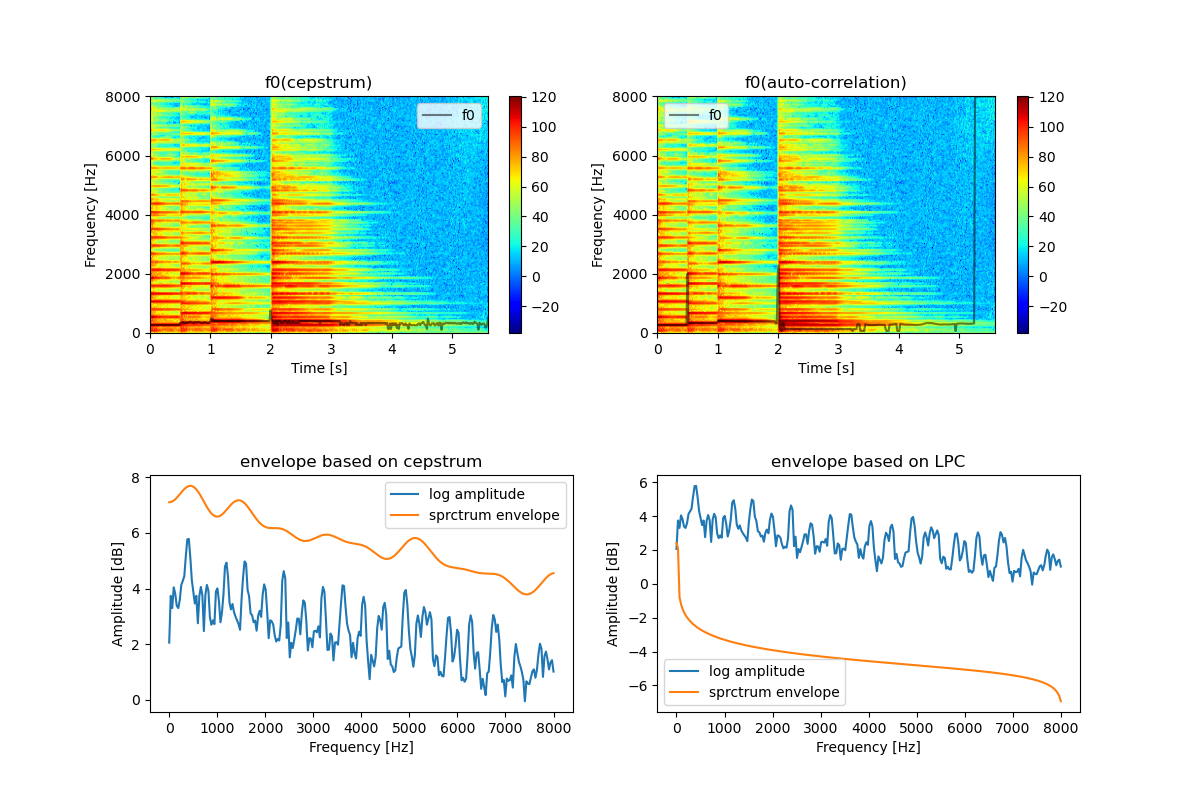
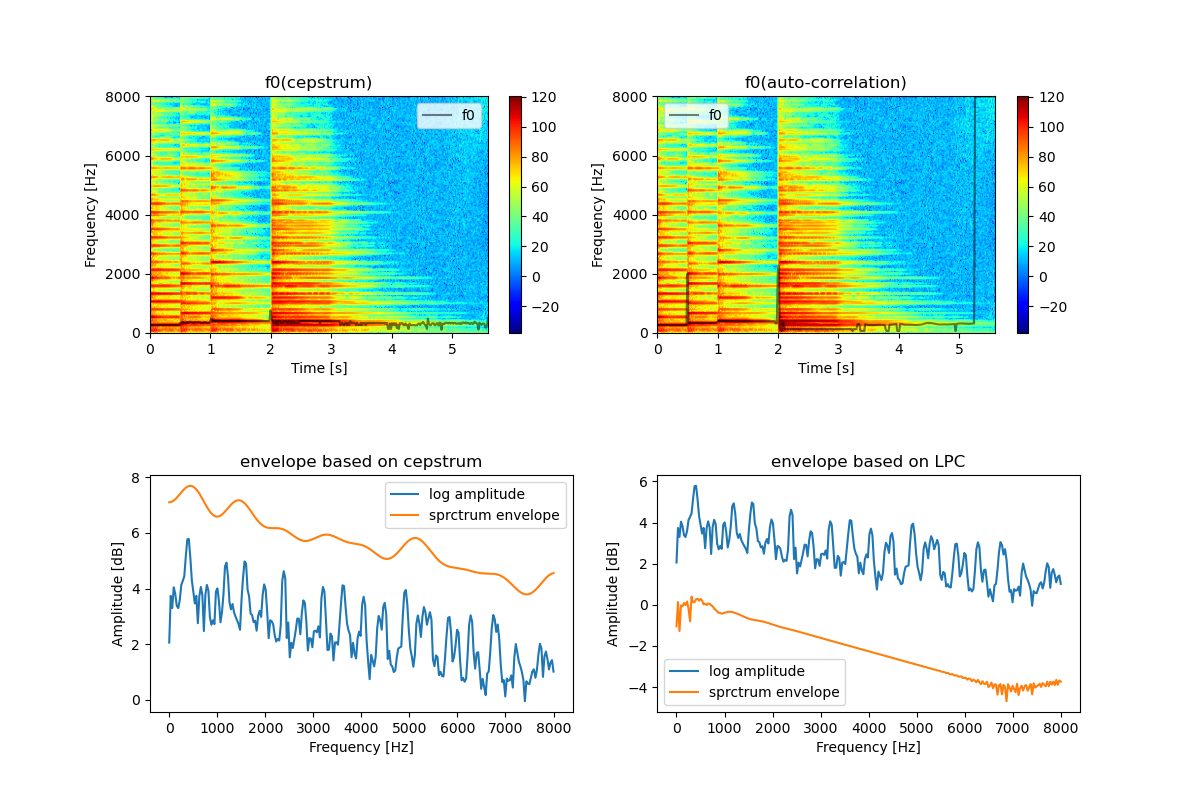
LPCできた?

Changed region(s): [[0.5242, 0.625, 0.8942, 0.875], [0.5242, 0.8438, 0.555, 0.875]]

diff --git a/ex4/sawada/my_functions/envelope.py b/ex4/sawada/my_functions/envelope.py
@@ -37,17 +37,13 @@ def envelope_cepstrum(data):
 # TODO: おかしい
 def envelope_lpc(data, p, fs):
     # TODO: docstring
-    length = len(data)
     auto_correlation = f0.auto_correlation(data)
     
-    toeplitz = np.zeros((length, length))
-    for i in range(length):
-        toeplitz[i:, i] = auto_correlation[i:]
-        toeplitz[i, i:] = auto_correlation[i:]
-    
-    # alphas = solve_toeplitz(toeplitz, auto_correlation)
-    alphas = scipy.linalg.solve_toeplitz(auto_correlation, -auto_correlation)
-    
+    alphas = solve_toeplitz(auto_correlation[:p],
+                            -auto_correlation[1:p + 1])
+    # alphas = scipy.linalg.solve_toeplitz(auto_correlation[:p],
+    #                                      -auto_correlation[1:p + 1])
+    alphas = np.append([1], alphas)  # add constant term
     w, h = scipy.signal.freqz(1, alphas, fs=fs)
     
     # fig = plt.figure(figsize=(10, 10))
@@ -59,26 +55,33 @@ def envelope_lpc(data, p, fs):
 
 # TODO: おかしい
 def solve_toeplitz(x, b):
-    if (x.shape[0] != x.shape[1] or x.shape[1] != len(b)):
-        raise ValueError("wrong shape")
     dimension = len(b)
+    if (dimension != len(x)):
+        raise ValueError("wrong shape")
+    toeplitz = np.zeros((dimension, dimension))
+    for i in range(dimension):
+        toeplitz[i:, i] = x[i:]
+        toeplitz[i, i:] = x[i:]
     answers = np.zeros(dimension)
     residual_error = np.zeros(dimension)
-    
-    # base stage
-    answers[0] = -1 * x[1, 1] / x[0, 0]
-    residual_error[0] = x[0, 0] + answers[0] * x[1, 1]
-    
-    # recursive stage
-    for i in range(dimension - 1):
-        lambda_ = 0
-        for j in range(i + 2):
-            lambda_ -= answers[j] * b[i + 1 - j]
-        lambda_ /= residual_error[i]
+    if True:
+        # とりあえず愚直に逆行列で…
+        answers = np.linalg.inv(toeplitz) @ -b
+    else:
+        # base stage
+        answers[0] = -1 * toeplitz[1, 1] / toeplitz[0, 0]
+        residual_error[0] = toeplitz[0, 0] + answers[0] * toeplitz[1, 1]
         
-        answers[: i + 2] = (np.concatenate([[1], answers[: i + 1], [0]]) +
-                            lambda_ *
-                            np.concatenate([[0], answers[: i + 1], [1]]))[1:]
-        residual_error[i + 1] = (1 - np.power(lambda_, 2)) * residual_error[i]
-    
+        # recursive stage
+        for i in range(dimension - 1):
+            lambda_ = 0
+            for j in range(i + 2):
+                lambda_ -= answers[j] * b[i + 1 - j]  # NOTE: 怪しい
+            lambda_ /= residual_error[i]
+            
+            answers[: i + 2] = (np.concatenate([[1], answers[: i + 1], [0]]) +
+                                lambda_ *
+                                np.concatenate([[0], answers[: i + 1], [1]]))[1:]
+            residual_error[i + 1] = (1 - np.power(lambda_, 2)) * residual_error[i]
+        
     return answers

diff --git a/ex4/sawada/main.py b/ex4/sawada/main.py
@@ -74,8 +74,8 @@ if __name__ == "__main__":
     ax3.legend()
     
     # envelope based on LPC
-    p = 20
-    envelope_lpc_wav = envelope.envelope_lpc(target_frame, 20, fs)
+    p = 32
+    envelope_lpc_wav = envelope.envelope_lpc(target_frame, p, fs)
     ax4 = fig.add_subplot(224)
     ax4.set_title("envelope based on LPC")
     ax4.set_xlabel("Frequency [Hz]")
